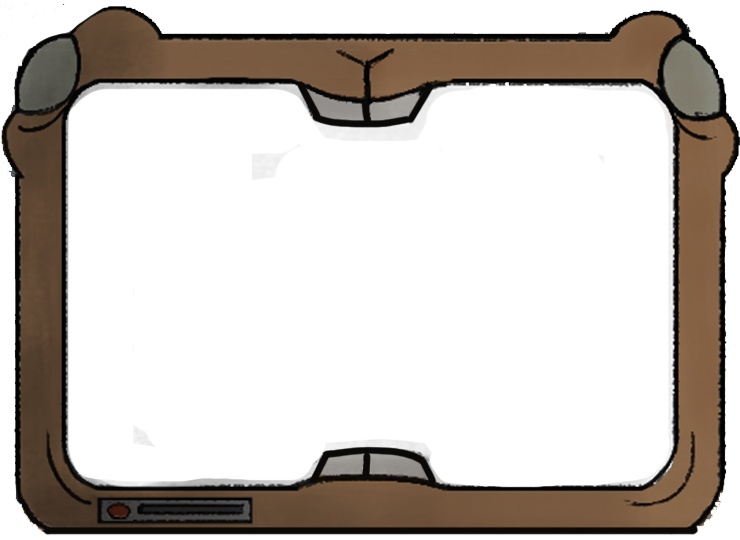
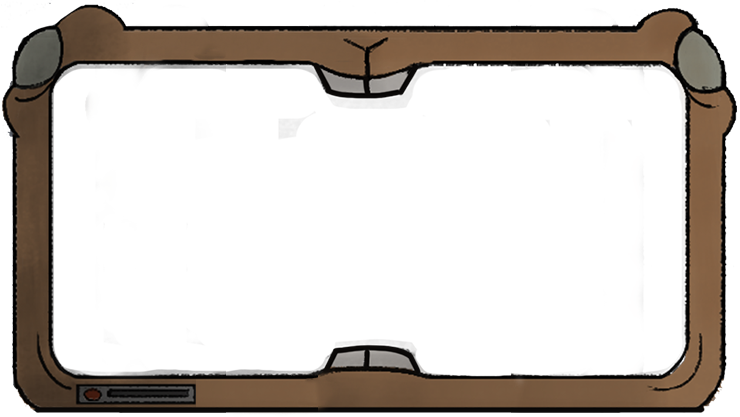
añadida la tele a main page
la tele está añadida e integrada

diff --git a/main.html b/main.html
@@ -42,15 +42,28 @@
 
   <!-- MAIN -->
   <main>
-    <!-- Sección 1: Tráiler -->
-    <section class="section-video">
-      <div class="container video-wrapper text-center">
-        <div class="ratio ratio-16x9">
-          <iframe src="https://www.youtube.com/embed/xpe6UkhIKlY" title="Trailer Lanzamiento Coins Only!" frameborder="0" allow="accelerometer; autoplay; clipboard-write; encrypted-media; gyroscope; picture-in-picture; web-share" referrerpolicy="strict-origin-when-cross-origin" allowfullscreen></iframe>
-        </div>
-        <a href="https://sleepy-skull-studios.itch.io/coins-only" class="btn btn-warning demo-btn mt-4" target="_blank" rel="noopener noreferrer">🎮 Jugar Demo</a>
+
+  <!-- Sección 1: Tráiler -->
+  <section class="section-video">
+    <div class="container video-wrapper text-center">
+      <div class="video-frame-container">
+        <iframe src="https://www.youtube.com/embed/xpe6UkhIKlY"
+                title="Trailer Lanzamiento Coins Only!"
+                frameborder="0"
+                allow="accelerometer; autoplay; clipboard-write; encrypted-media; gyroscope; picture-in-picture; web-share"
+                referrerpolicy="strict-origin-when-cross-origin"
+                allowfullscreen>
+        </iframe>
+        <img src="Media/tele.png" alt="Marco decorativo" class="video-frame">
       </div>
-    </section>
+      <a href="https://sleepy-skull-studios.itch.io/coins-only"
+        class="btn btn-warning demo-btn mt-4"
+        target="_blank"
+        rel="noopener noreferrer">🎮 Jugar Demo</a>
+    </div>
+  </section>
+
+
     
     <!-- Sección 2: Galería + Texto -->
     <section class="section-galeria">

diff --git a/CSS/styles.css b/CSS/styles.css
@@ -91,6 +91,35 @@ main {
   line-height: 1.6;
   padding-right: 10px;
 }
+/* === MARCO PNG SOBRE VÍDEO === */
+.video-frame-container {
+  position: relative;
+  width: 100%;
+  max-width: 960px;
+  margin: 0 auto;
+  aspect-ratio: 16 / 9; /* O usa padding-top si prefieres */
+}
+
+.video-frame-container iframe {
+  position: absolute;
+  top: 9.5%;
+  left: 7.3%;
+  width: 85%;
+  height: 81%;
+  border-radius: 12px;
+  z-index: 1;
+}
+
+.video-frame {
+  position: absolute;
+  top: 0;
+  left: 0;
+  width: 100%;
+  height: 100%;
+  object-fit: contain;
+  pointer-events: none;
+  z-index: 2;
+}
 
 /* === CAROUSEL === */
 .carousel-container {
